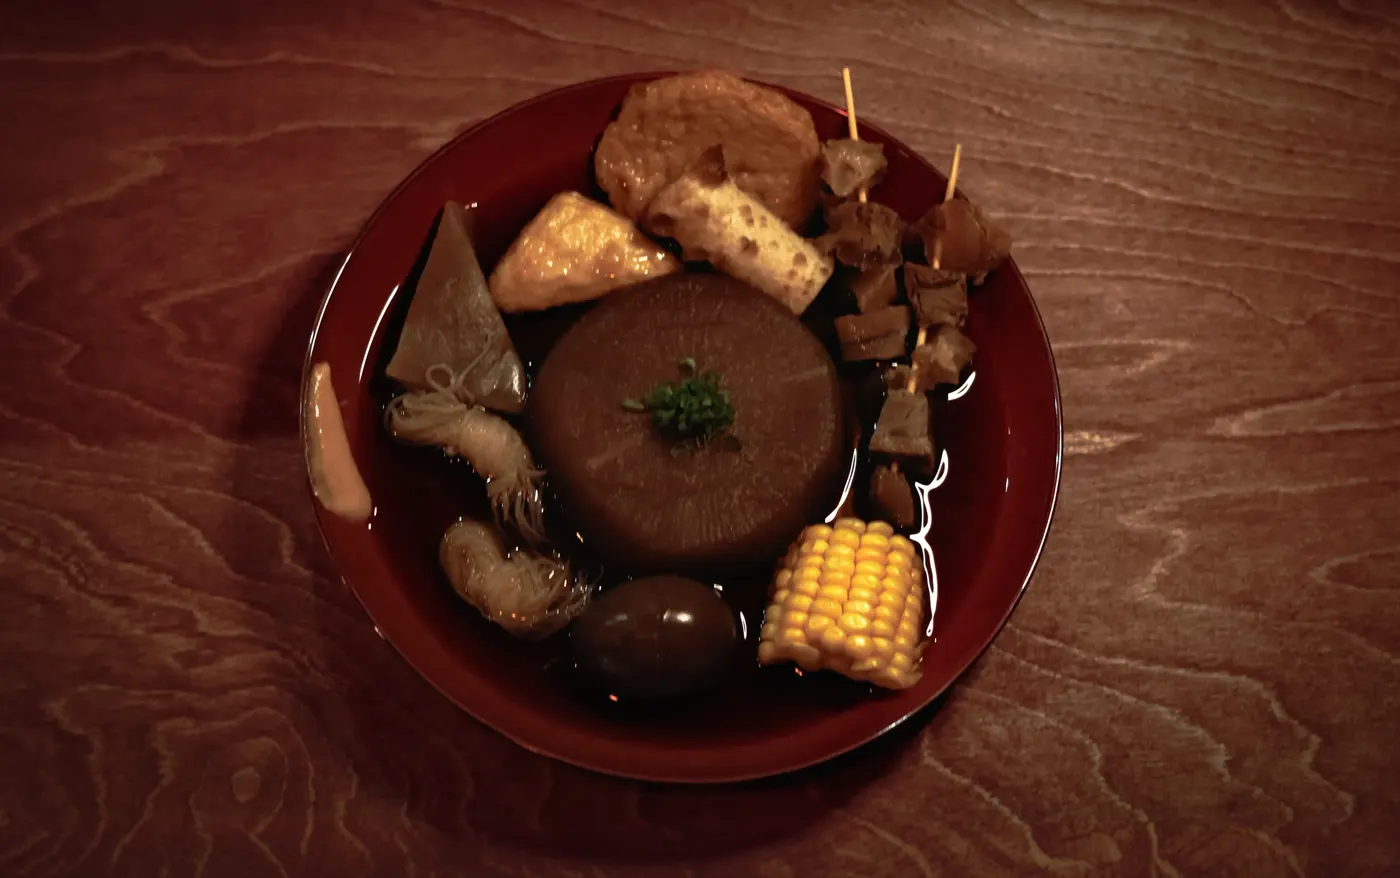
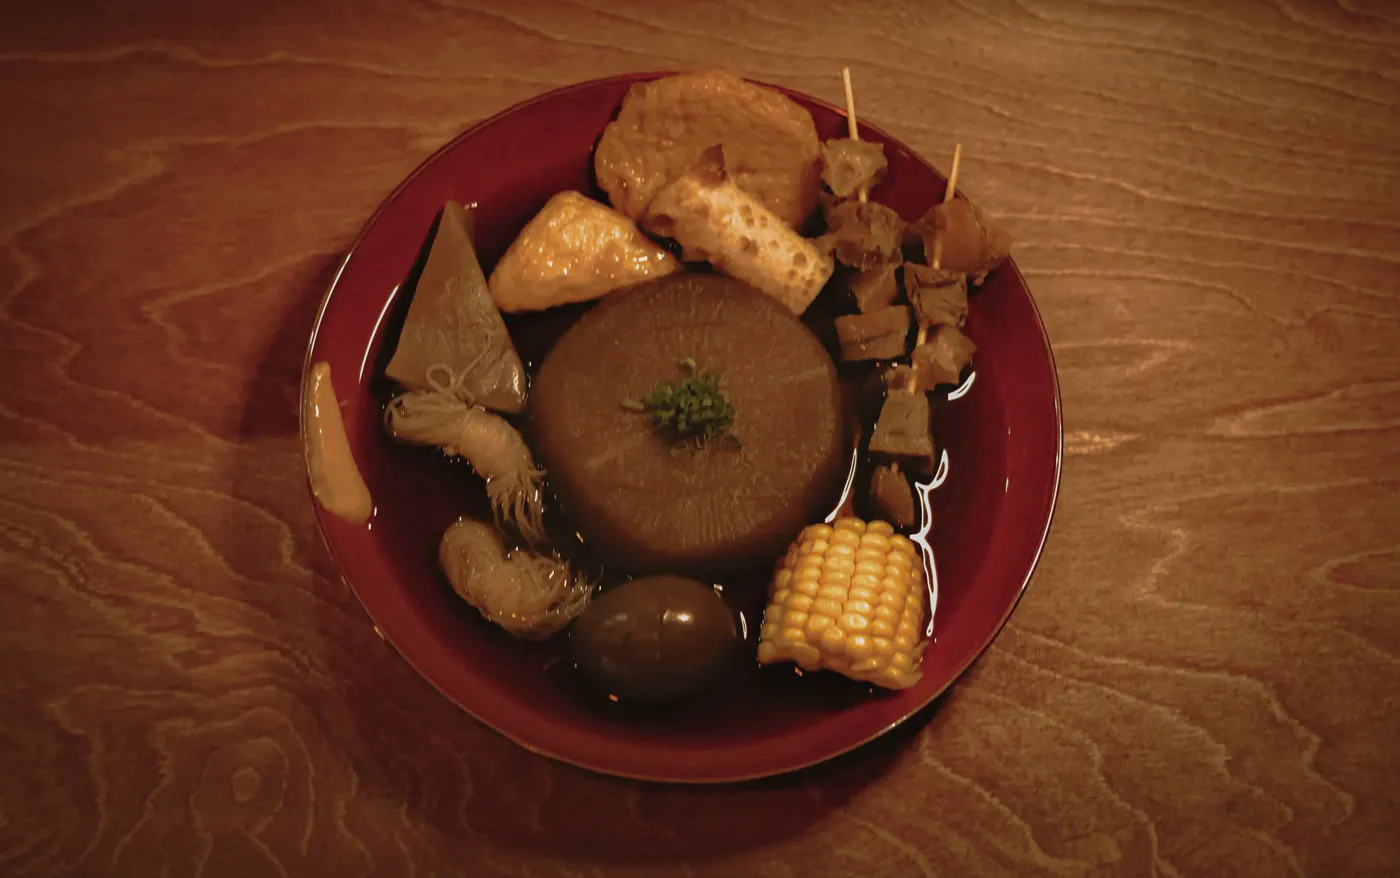
Polish review form UX and add scroll-to-top on same-page nav clicks
- Unify spacing above the price/review dividers and between the
  review list and the write-a-review form in the drink detail popup
- Lighten empty-state and placeholder text so it reads as secondary,
  not on par with real info labels
- Require a nickname for reviews (was optional "이름"), submit blocked
  until both nickname and content are filled
- Scroll to top when a nav link/logo is clicked while already on that
  page, on every entry point (desktop sidebar, mobile header logo,
  mobile nav drawer) — previously a same-route click did nothing
- Swap in the color-corrected onboarding photo-01

diff --git a/components/ReviewSection.tsx b/components/ReviewSection.tsx
@@ -74,7 +74,7 @@ export function ReviewSection({ slug }: { slug: string }) {
 
   async function handleSubmit(e: React.FormEvent) {
     e.preventDefault();
-    if (!content.trim()) return;
+    if (!content.trim() || !name.trim()) return;
     setSubmitting(true);
     setError(null);
     try {
@@ -91,7 +91,7 @@ export function ReviewSection({ slug }: { slug: string }) {
       saveToken(id, deleteToken);
       setTokens(readTokens());
       setReviews((prev) => [
-        { id, slug, name: name.trim() || "익명", rating, content, createdTime: new Date().toISOString() },
+        { id, slug, name: name.trim(), rating, content, createdTime: new Date().toISOString() },
         ...(prev ?? []),
       ]);
       setName("");
@@ -120,13 +120,13 @@ export function ReviewSection({ slug }: { slug: string }) {
   }
 
   return (
-    <div className="mt-8 flex flex-col gap-4">
+    <div className="mt-4 flex flex-col gap-4">
       <p className="text-caption text-muted">손님 후기{reviews ? ` (${reviews.length})` : ""}</p>
 
       {reviews === null ? (
         <p className="text-body-small text-muted">불러오는 중…</p>
       ) : reviews.length === 0 ? (
-        <p className="text-body-small text-muted">아직 등록된 후기가 없습니다.</p>
+        <p className="text-body-small text-border-strong">아직 등록된 후기가 없습니다.</p>
       ) : (
         <ul className="flex flex-col gap-4">
           {reviews.map((review) => (
@@ -152,15 +152,16 @@ export function ReviewSection({ slug }: { slug: string }) {
         </ul>
       )}
 
-      <form onSubmit={handleSubmit} className="mt-2 flex flex-col gap-3">
+      <form onSubmit={handleSubmit} className="mt-6 flex flex-col gap-3">
         <Stars value={rating} onChange={setRating} />
         <input
           type="text"
           value={name}
           onChange={(e) => setName(e.target.value)}
-          placeholder="이름 (선택)"
+          placeholder="닉네임"
           maxLength={40}
-          className="w-32 border-b border-hairline bg-transparent pb-1 text-body-small text-ink outline-none placeholder:text-muted focus:border-ink"
+          required
+          className="w-32 border-b border-hairline bg-transparent pb-1 text-body-small text-ink outline-none placeholder:text-border-strong focus:border-ink"
         />
         <textarea
           value={content}
@@ -169,7 +170,7 @@ export function ReviewSection({ slug }: { slug: string }) {
           rows={3}
           maxLength={1000}
           required
-          className="w-full resize-none border border-hairline bg-transparent p-3 text-body-small text-ink outline-none placeholder:text-muted focus:border-ink"
+          className="w-full resize-none border border-hairline bg-transparent p-3 text-body-small text-ink outline-none placeholder:text-border-strong focus:border-ink"
         />
         {error && <p className="text-caption text-error">{error}</p>}
         <button

diff --git a/components/NavDrawer.tsx b/components/NavDrawer.tsx
@@ -4,6 +4,7 @@ import { useEffect, useState } from "react";
 import { createPortal } from "react-dom";
 import Link from "next/link";
 import Image from "next/image";
+import { usePathname } from "next/navigation";
 
 const NAV_ITEMS = [
   { href: "/", label: "홈", icon: "/brand/nav-icons/home.svg", sizeClass: "h-8 w-auto" },
@@ -41,6 +42,7 @@ function MenuIcon({ className = "" }: { className?: string }) {
 export function NavDrawer() {
   const [open, setOpen] = useState(false);
   const [mounted, setMounted] = useState(false);
+  const pathname = usePathname();
 
   useEffect(() => {
     // eslint-disable-next-line react-hooks/set-state-in-effect -- portal은 hydration mismatch를 피하려 mount 이후에만 렌더링해야 한다.
@@ -80,7 +82,12 @@ export function NavDrawer() {
                 <Link
                   key={item.href}
                   href={item.href}
-                  onClick={() => setOpen(false)}
+                  onClick={() => {
+                    setOpen(false);
+                    if (pathname === item.href) {
+                      window.scrollTo({ top: 0, behavior: "smooth" });
+                    }
+                  }}
                   style={{ transitionDelay: open ? `${i * 40}ms` : "0ms" }}
                   className={`flex flex-col items-center gap-2 text-[14px] font-light tracking-[0.02em] text-ink transition-all duration-300 ease-out hover:text-muted ${
                     open ? "translate-y-0 opacity-100" : "translate-y-2 opacity-0"

diff --git a/components/SiteSidebar.tsx b/components/SiteSidebar.tsx
@@ -17,10 +17,19 @@ const NAV_ITEMS = [
 export function SiteSidebar() {
   const pathname = usePathname();
 
+  // 이미 있는 페이지의 링크(로고 포함, 로고는 항상 "/")를 다시 눌렀을 때는
+  // Next.js가 같은 경로로는 아무 반응도 하지 않아 "눌렀는데 반응이 없다"고
+  // 느껴진다 — 맨 위로 스크롤시켜 클릭에 대한 눈에 보이는 피드백을 준다.
+  const scrollToTopIfCurrent = (href: string) => () => {
+    if (pathname === href) {
+      window.scrollTo({ top: 0, behavior: "smooth" });
+    }
+  };
+
   return (
     <aside className="sticky top-0 hidden h-screen w-64 shrink-0 flex-col justify-between border-r border-hairline px-8 py-10 md:flex">
       <div className="flex flex-col gap-10">
-        <Link href="/" className="inline-flex items-center gap-3">
+        <Link href="/" onClick={scrollToTopIfCurrent("/")} className="inline-flex items-center gap-3">
           <Image src="/brand/logo_kor.svg" alt="수우" width={88} height={41} priority />
         </Link>
 
@@ -31,6 +40,7 @@ export function SiteSidebar() {
               <Link
                 key={item.href}
                 href={item.href}
+                onClick={scrollToTopIfCurrent(item.href)}
                 className={`flex items-center gap-3 transition-colors ${
                   active ? "text-ink" : "text-muted hover:text-ink"
                 }`}

diff --git a/components/SiteHeader.tsx b/components/SiteHeader.tsx
@@ -1,11 +1,24 @@
+"use client";
+
 import Link from "next/link";
 import Image from "next/image";
+import { usePathname } from "next/navigation";
 import { NavDrawer } from "@/components/NavDrawer";
 
 export function SiteHeader() {
+  const pathname = usePathname();
+
   return (
     <header className="sticky top-0 z-50 flex items-center justify-between border-b border-hairline bg-canvas/95 px-6 py-2 backdrop-blur sm:px-10 md:hidden">
-      <Link href="/" className="inline-flex items-center gap-3">
+      <Link
+        href="/"
+        onClick={() => {
+          if (pathname === "/") {
+            window.scrollTo({ top: 0, behavior: "smooth" });
+          }
+        }}
+        className="inline-flex items-center gap-3"
+      >
         <Image src="/brand/logo_kor.svg" alt="수우" width={64} height={30} priority />
       </Link>
       <NavDrawer />
